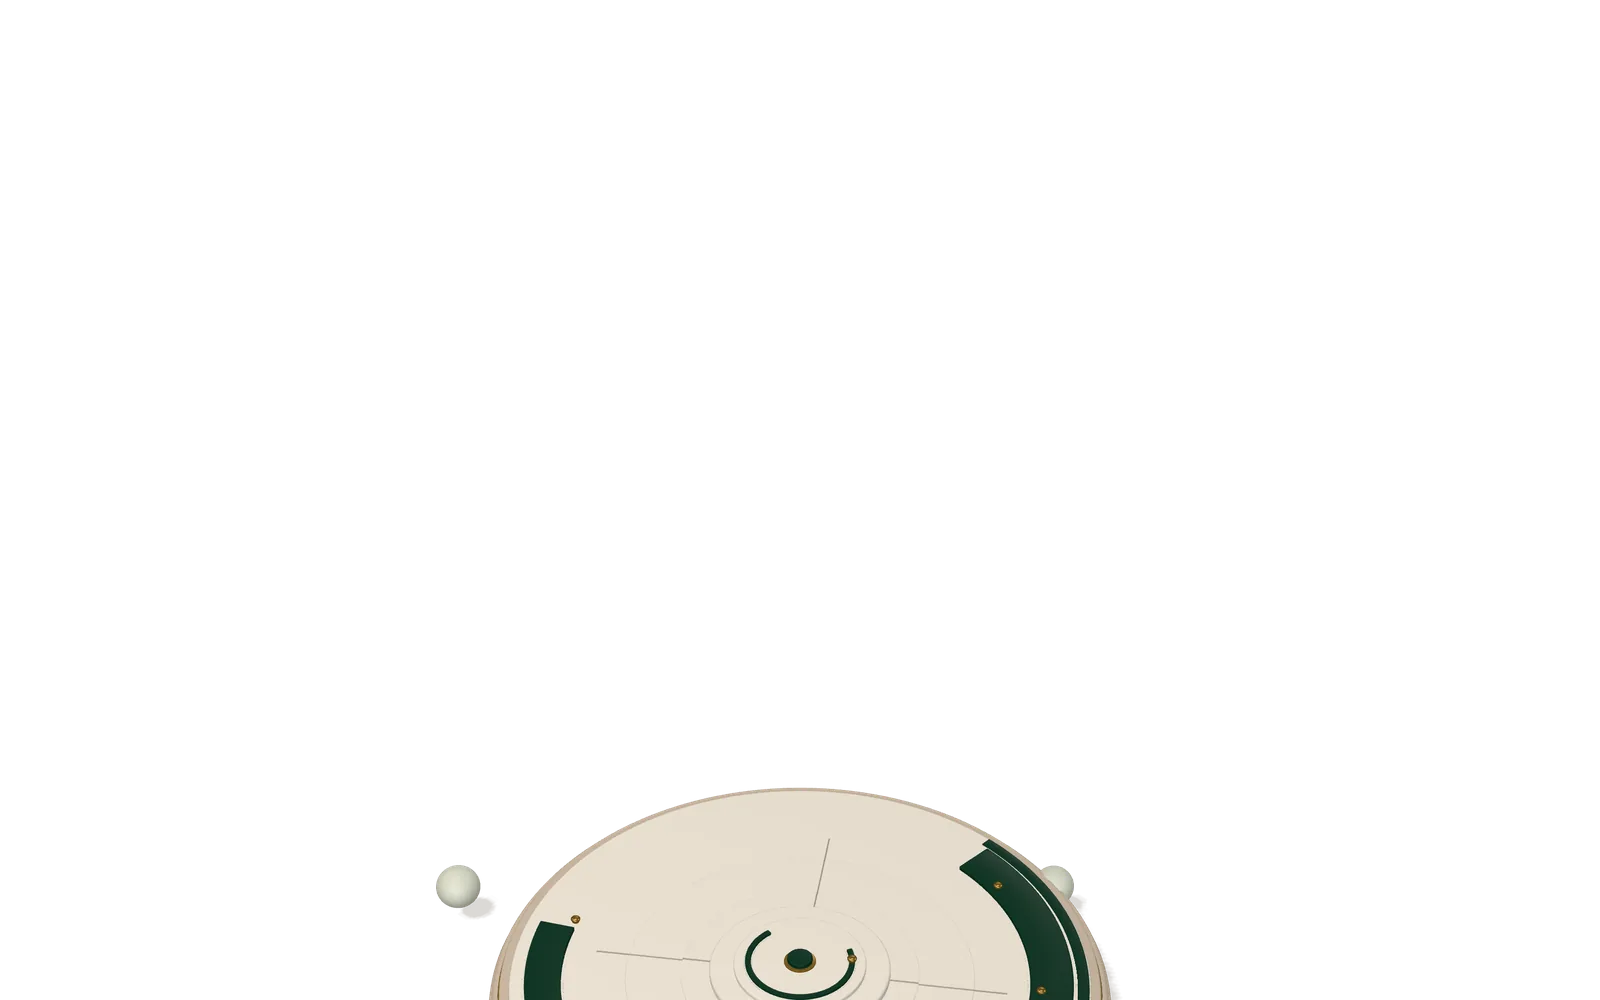
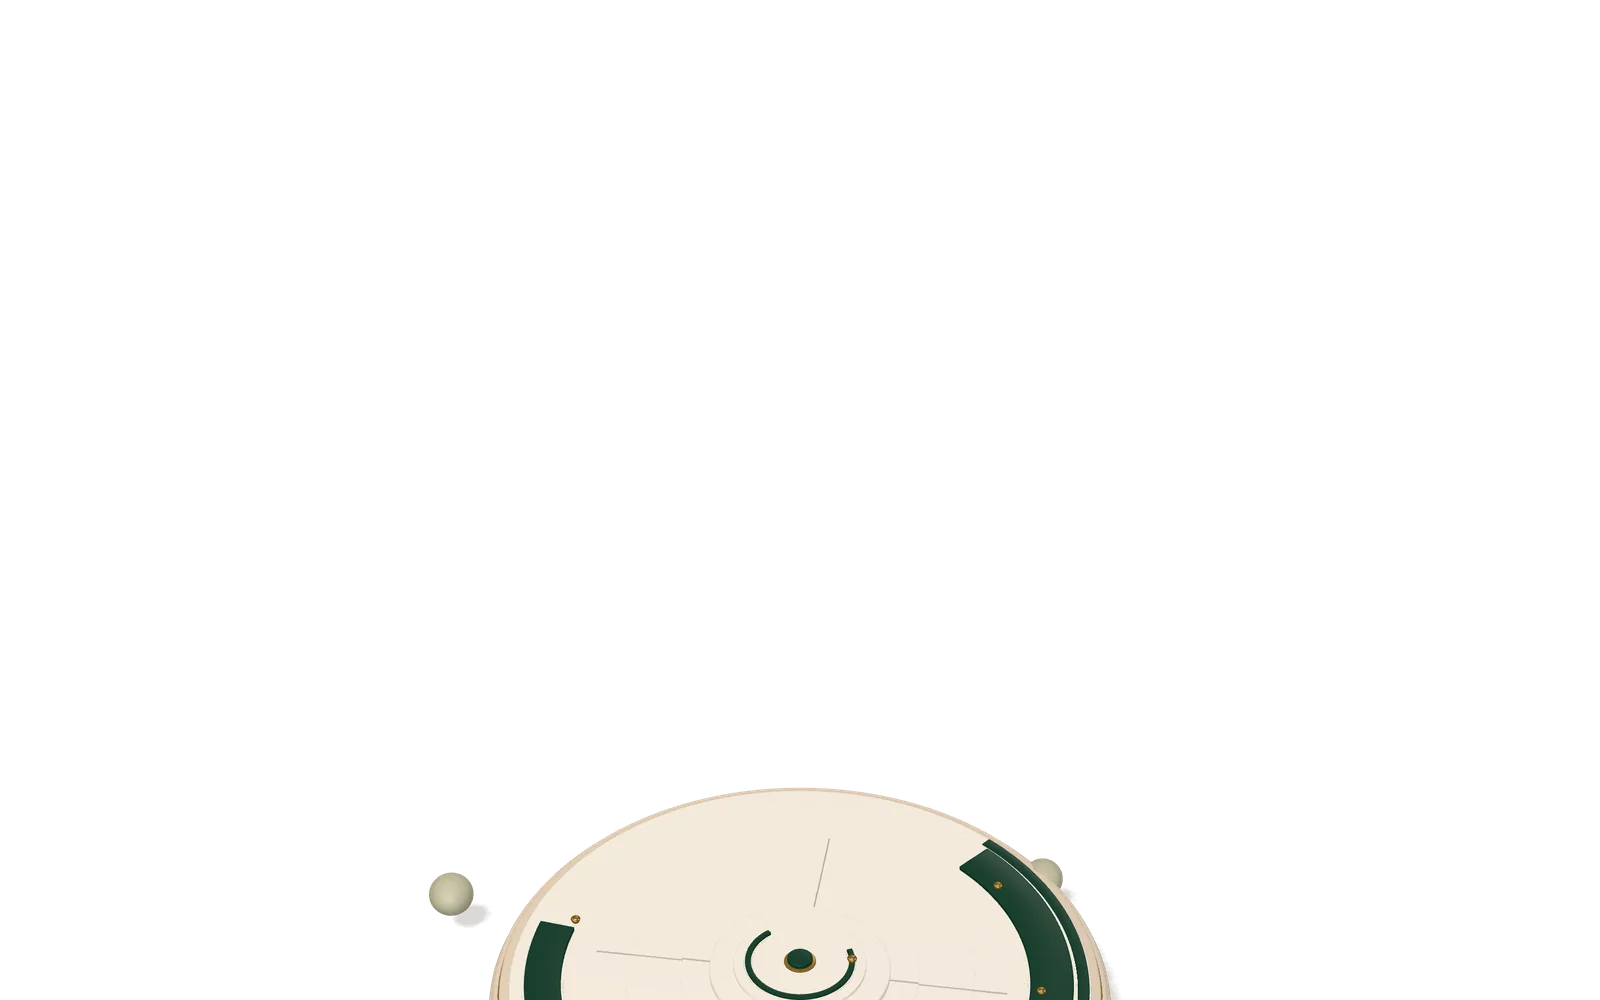
Match orb and satellite colour to the approved hero reference
Corrects a reference-authority mistake. I had treated a supplied current-state
screenshot as a new approved reference and re-derived the satellites from it.
REFERENCE PAGES/1.png is the authority; this re-derives from that file by
sampling it rather than by eye.

Sampled from the reference and converged against it:

  element    reference   before      after      delta vs reference
  ceramic    #f5f0e8     #e6ded0     #f2eadc    (-3, -6, -12)
  satellite  #c5c4ad     #dde2d5     #c4c0a4    (-1, -4, -9)

Satellites keep the simple smooth-sphere form — the reference shows no brass, no
channel, no detailing, and the authored-instrument version built earlier is
correctly abandoned. What was wrong was colour, twice on the same axis: #9ead99
was too cool and went muddy after tone mapping was corrected, and #dde2d5 was an
over-correction to cool porcelain. The reference reads a warm khaki-sage, so the
albedo is set to #b3b29b, scaled so the scene's ambient lands the rendered pixel
on the reference value rather than above it.

The ceramic body was ~15 points too dark, which was my own Phase 2 over-darkening
of ambient. Environment intensity 0.34 to 0.46 and hemisphere 0.42 to 0.72 bring
it onto the reference without flattening the form the key light creates. The
residual blue deficit is the intended warm ivory and is not chased further.

Poster regenerated from the live frame after the colour change: 16.5 kB WebP,
8.9 kB AVIF.
[…]

diff --git a/frontend/src/orb/AuthoredSatelliteInstrument.tsx b/frontend/src/orb/AuthoredSatelliteInstrument.tsx
@@ -4,7 +4,7 @@ import * as THREE from "three";
 /**
  * The three orbiting bodies.
  *
- * The approved reference shows these as smooth, pale sage-white spheres — no
+ * The approved reference shows these as smooth spheres — no
  * brass, no equatorial channel, no mechanical detailing. An earlier pass here
  * added all three (a forest channel, brass index pin, actuator cap and aperture
  * ring, one per satellite echoing Plan/Act/Verify). It read as authored, but it
@@ -36,17 +36,24 @@ export const SATELLITE_PROFILES: Record<SatelliteKind, SatelliteProfile> = {
 };
 
 /**
- * Pale sage-white porcelain. Read from the reference, which is markedly lighter
- * and more luminous than the mid-sage these used to be.
+ * Sampled from the approved hero reference rather than guessed.
+ *
+ * REFERENCE PAGES/1.png reads #c5c4ac on the lit sphere and #9d9b79 where it
+ * falls into shadow — a warm khaki-sage. Both previous values were wrong on the
+ * same axis: #9ead99 was too cool and went muddy once tone mapping was
+ * corrected, and #dde2d5 (an over-correction after misreading a current-state
+ * screenshot as reference) was too pale and too cool again. The lit sample is
+ * used as the target, with the albedo scaled back to #b3b29b so that the scene's
+ * ambient lands the rendered pixel on the reference value rather than above it.
  */
-const SHELL = "#dde2d5";
+const SHELL = "#b3b29b";
 
 export function useSatelliteMaterials() {
   return useMemo(
     () => ({
       shell: new THREE.MeshPhysicalMaterial({
         color: SHELL,
-        roughness: 0.58,
+        roughness: 0.62,
         metalness: 0,
         // A light coat gives the soft, slightly waxy highlight the reference
         // beads have, without turning them glossy.

diff --git a/frontend/src/orb/authoredReflowRendering.tsx b/frontend/src/orb/authoredReflowRendering.tsx
@@ -226,7 +226,7 @@ export function AuthoredStudioEnvironment({
     addReflectionPanel(studio, [2.7, 6.7, -1.8], [0.9, 0.9], "#fff2ce", 1.3);
     const environment = generator.fromScene(studio, 0.04).texture;
     scene.environment = environment;
-    scene.environmentIntensity = 0.34;
+    scene.environmentIntensity = 0.46;
     onReady?.();
     invalidate();
     return () => {
@@ -255,7 +255,7 @@ export function AuthoredStudioEnvironment({
  */
 export function AuthoredStudioLights() {
   return <>
-    <hemisphereLight args={["#fff3e2", "#9b9080", 0.42]} />
+    <hemisphereLight args={["#fff3e2", "#9b9080", 0.72]} />
     <spotLight
       castShadow
       position={[-4.9, 8.4, 5.4]}
